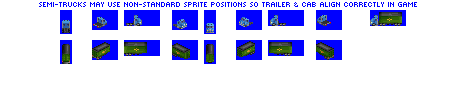
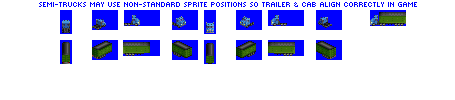
Change: reworked Quickset and Speedwell box trucks to have longer trailers and correct lengths etc

diff --git a/src/vehicles/quickset.py b/src/vehicles/quickset.py
@@ -18,7 +18,7 @@ consist.add_unit(weight = 7,
 
 consist.add_unit(weight = 8,
                 capacity = 40,
-                vehicle_length = 6)
+                vehicle_length = 7)
 
 consist.add_model_variant(intro_date=0,
                        end_date=global_constants.max_game_date,

diff --git a/src/vehicles/speedwell.py b/src/vehicles/speedwell.py
@@ -18,7 +18,7 @@ consist.add_unit(weight = 7,
 
 consist.add_unit(weight = 8,
                 capacity = 40,
-                vehicle_length = 6)
+                vehicle_length = 7)
 
 consist.add_model_variant(intro_date=0,
                        end_date=global_constants.max_game_date,
